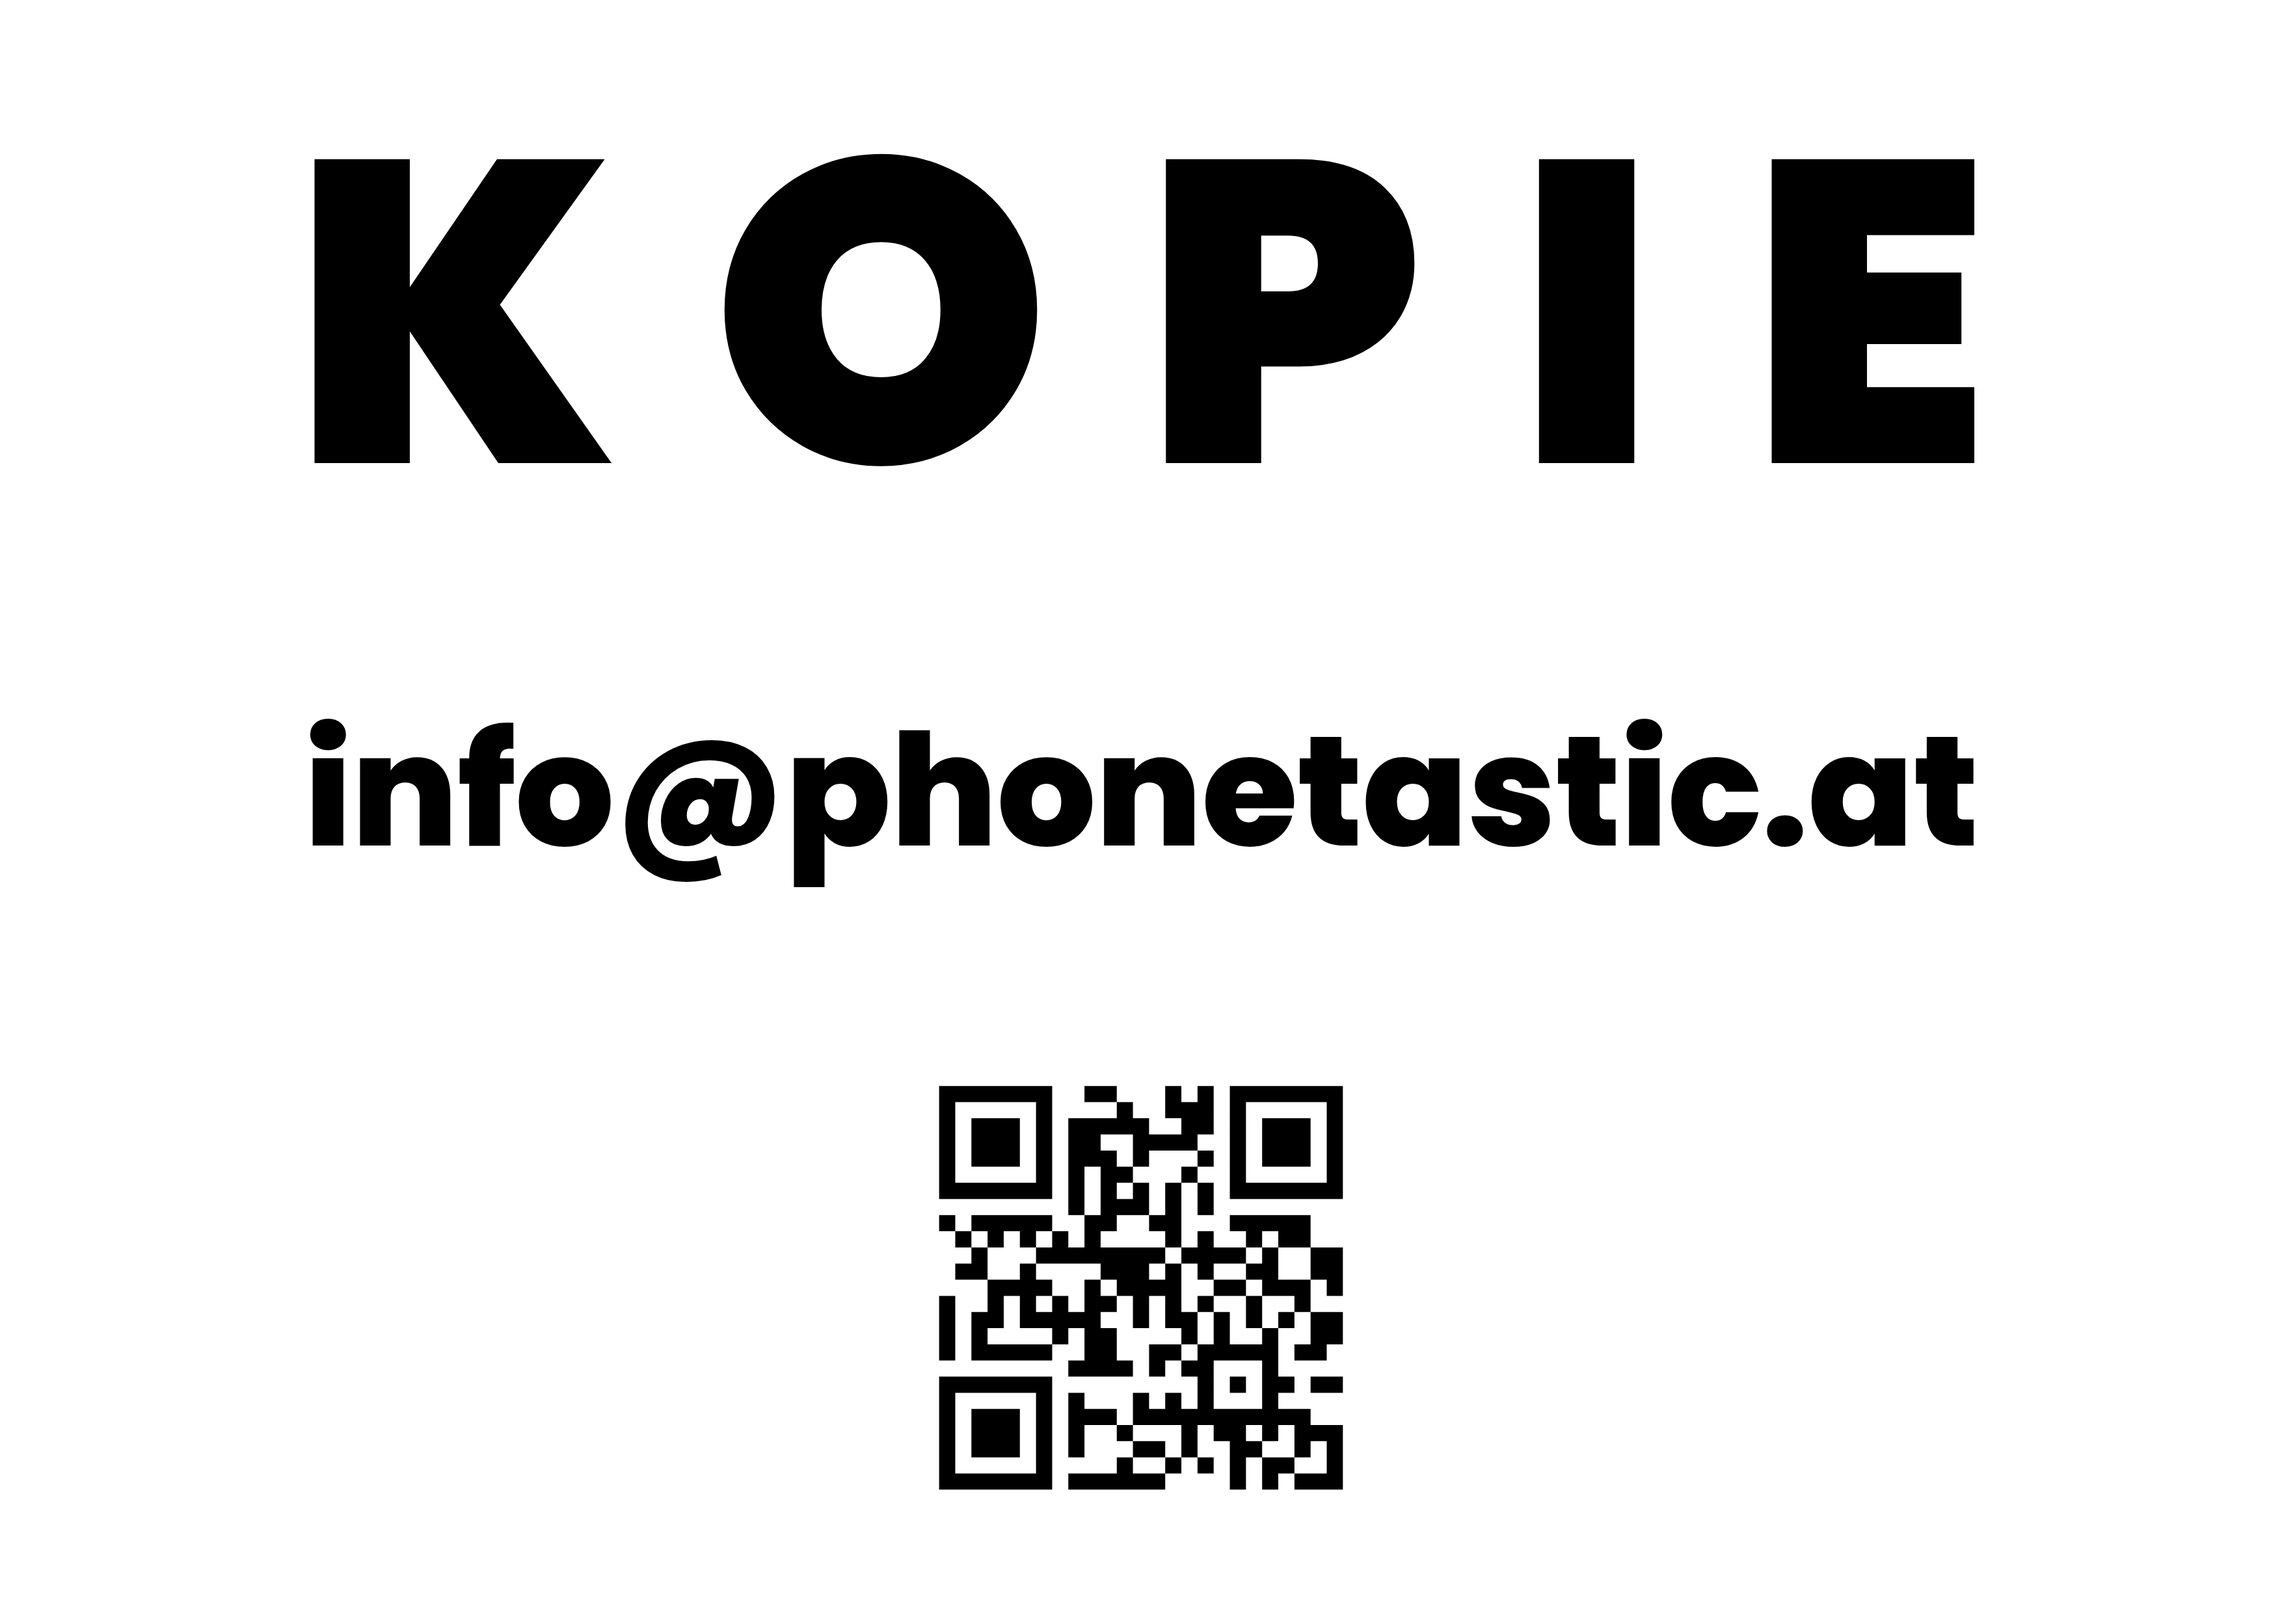
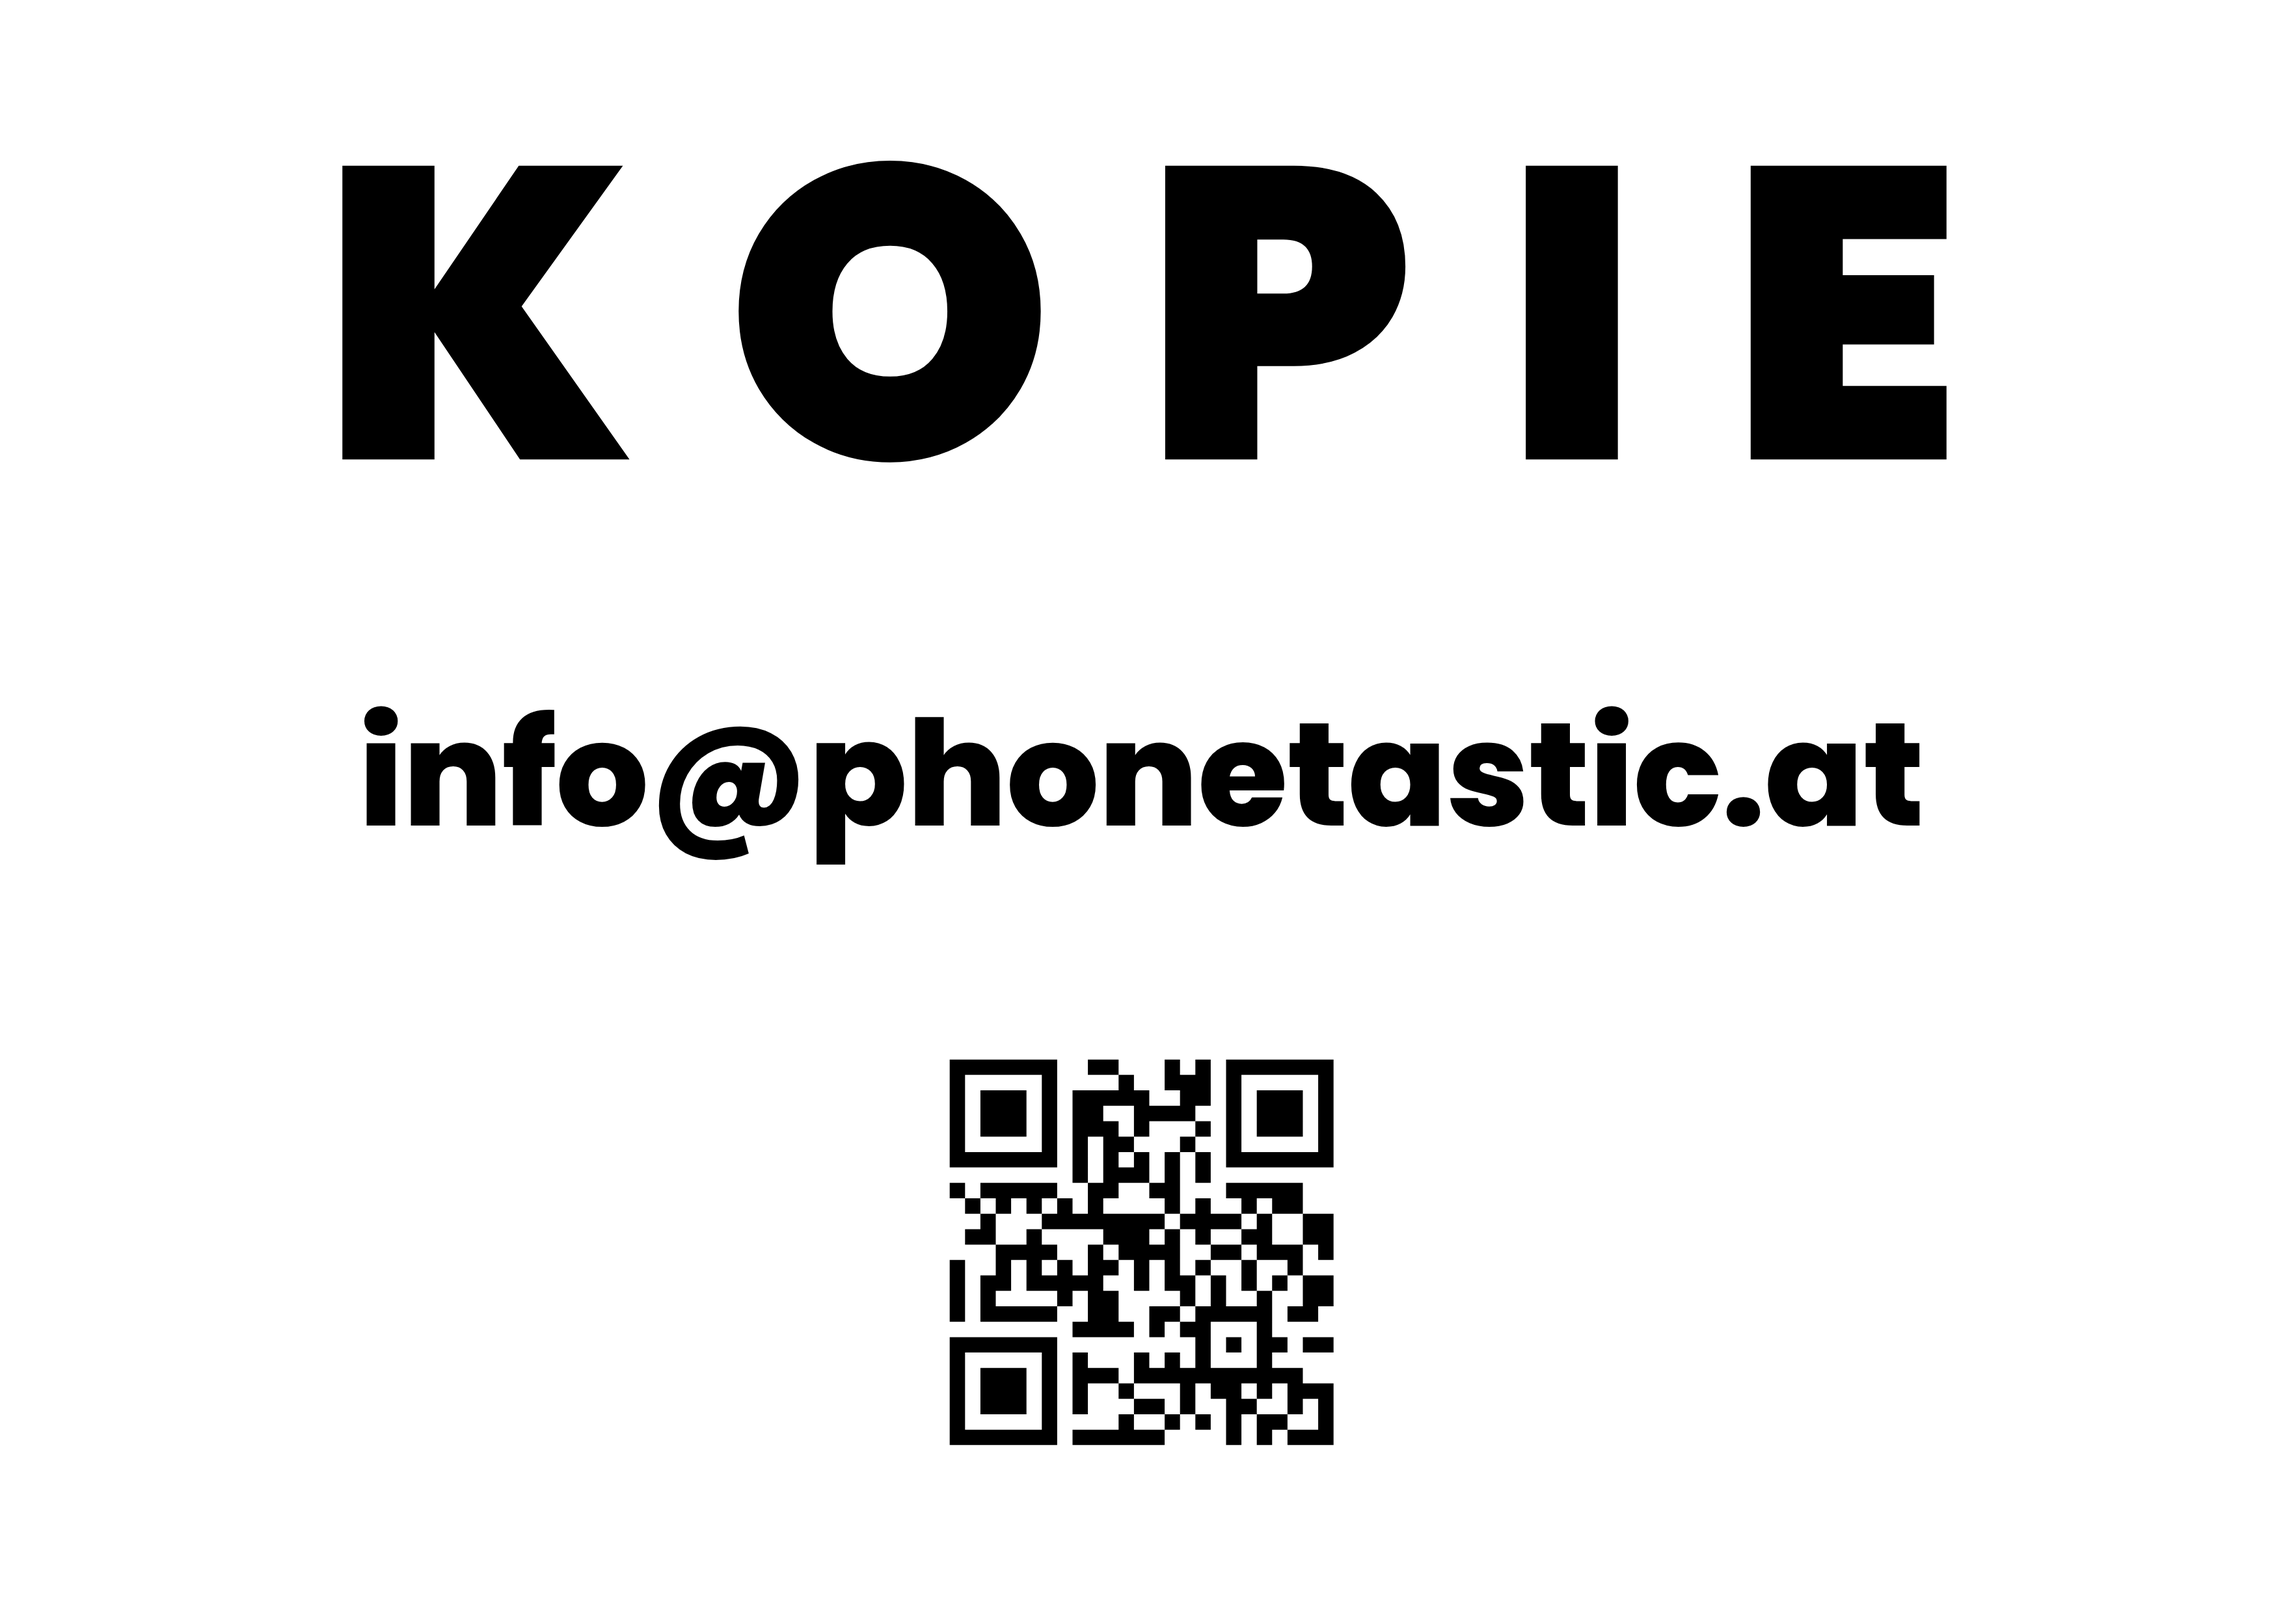
Build the sheet in millimetres and verify the PDF by rendering it
The layout is now sized in mm (297x210) so it matches the print page
one to one, with no scaling step between design and page. The previous
version drew at 1754x1240 px and shrank it with a print-only transform;
a transform does not change the layout box, so the page could still
paginate on the untransformed size.

pdf-pruefen.py replaces the old QR check and verifies the artefact the
way a printer sees it: it rasterises every page, fails if there is more
than one, if a page is not 297x210mm, or if the QR code is not fully
readable on page one. Current output: 1 page, 297x210mm, QR resolves to
mailto:info@phonetastic.at.

README gains the print settings, since a two-page result now comes from
the print dialog rather than the file.

Claude-Session: https://claude.ai/code/session_01TVVgAyGsfcN3cS6abWuXzA

diff --git a/blatt/render.js b/blatt/render.js
@@ -1,11 +1,21 @@
 const { chromium } = require('/opt/node22/lib/node_modules/playwright');
 const path = require('path');
 
+// Das Blatt ist in Millimetern aufgebaut (297 × 210 mm = A4 quer).
+// In CSS-Pixeln bei 96 dpi sind das 1122,5 × 793,7 px.
+const BREITE_PX = 297 / 25.4 * 96;   // 1122,5
+const HOEHE_PX = 210 / 25.4 * 96;    // 793,7
+const DPI = 300;
+const SKALA = DPI / 96;              // 3,125 → PNG wird 3508 × 2480 px
+
 (async () => {
   const b = await chromium.launch({ executablePath: '/opt/pw-browsers/chromium-1194/chrome-linux/chrome' });
 
-  // PNG in Druckauflösung
-  const p = await b.newPage({ viewport: { width: 1820, height: 1300 }, deviceScaleFactor: 2 });
+  // ---- PNG in Druckauflösung ----
+  const p = await b.newPage({
+    viewport: { width: Math.ceil(BREITE_PX) + 40, height: Math.ceil(HOEHE_PX) + 40 },
+    deviceScaleFactor: SKALA,
+  });
   await p.goto('file://' + path.join(__dirname, 'email-blatt.html'));
   await p.evaluate(() => document.fonts.ready);
   await p.waitForTimeout(500);
@@ -13,14 +23,18 @@ const path = require('path');
   const bericht = await p.evaluate(() => {
     const blatt = document.querySelector('#blatt');
     const r = blatt.getBoundingClientRect();
+    const mm = (px) => px / 96 * 25.4;
     const out = [];
     if (blatt.scrollHeight > blatt.clientHeight + 1)
       out.push(`Inhalt ${blatt.scrollHeight}px > Platz ${blatt.clientHeight}px`);
     blatt.querySelectorAll('*').forEach((el) => {
-      const b = el.getBoundingClientRect();
-      if (!b.width) return;
-      if (b.right > r.right - 1 || b.left < r.left + 1)
-        out.push(`ragt über den Rand: ${el.className || el.tagName}`);
+      const e = el.getBoundingClientRect();
+      if (!e.width) return;
+      // Mindestens 8 mm Abstand zu jeder Blattkante
+      const rand = 8;
+      if (mm(e.left - r.left) < rand || mm(r.right - e.right) < rand ||
+          mm(e.top - r.top) < rand || mm(r.bottom - e.bottom) < rand)
+        out.push(`zu nah am Blattrand: ${el.className || el.tagName}`);
       if (el.scrollWidth > el.clientWidth + 1)
         out.push(`zu breit: "${(el.textContent || '').trim().slice(0, 30)}"`);
     });
@@ -32,8 +46,8 @@ const path = require('path');
   const el = await p.$('#blatt');
   await el.screenshot({ path: path.join(__dirname, 'phonetastic-email-blatt.png') });
 
-  // PDF für die Druckerei bzw. zum Kopieren
-  const pdf = await b.newPage({ viewport: { width: 1754, height: 1240 } });
+  // ---- PDF: echte A4-Seite quer ----
+  const pdf = await b.newPage({ viewport: { width: Math.ceil(BREITE_PX), height: Math.ceil(HOEHE_PX) } });
   await pdf.goto('file://' + path.join(__dirname, 'email-blatt.html'));
   await pdf.evaluate(() => document.fonts.ready);
   await pdf.waitForTimeout(400);

diff --git a/blatt/email-blatt.html b/blatt/email-blatt.html
@@ -5,43 +5,38 @@
 <title>PHONETASTIC – Kopie-Blatt A4 quer</title>
 <link rel="stylesheet" href="../fonts.css" />
 <style>
-  /* Beim Drucken gilt genau eine A4-Seite quer, ohne Rand */
+  /* Genau eine A4-Seite quer, ohne Rand */
   @page { size: A4 landscape; margin: 0; }
 
   * { margin: 0; padding: 0; box-sizing: border-box; }
-  body { font-family: 'Poppins', system-ui, sans-serif; background: #b9bec4; }
+  html, body { width: 297mm; height: 210mm; }
+  body { font-family: 'Poppins', system-ui, sans-serif; background: #ffffff; }
 
-  /* Die Gestaltung ist 1754 × 1240 px groß – das ist A4 quer bei 150 dpi.
-     Eine A4-Seite misst im Druck aber 1122,5 × 793,7 CSS-Pixel (96 dpi).
-     Ohne diese Verkleinerung wäre die Seite 464 mm breit und der Drucker
-     verteilt das Blatt auf zwei Seiten. */
-  @media print {
-    html, body { width: 297mm; height: 210mm; overflow: hidden; background: #fff; }
-    .blatt { transform: scale(0.639977); transform-origin: top left; }
-  }
-
-  /* A4 quer bei 150 dpi, wird mit Faktor 2 gerendert → 300 dpi.
-     Nur Schwarz auf Weiß: bleibt auf jedem Kopierer scharf. */
+  /* Das Blatt ist direkt in Millimetern aufgebaut und damit exakt so
+     groß wie die Druckseite. Kein Umrechnen und kein nachträgliches
+     Verkleinern – dadurch kann nichts auf eine zweite Seite rutschen.
+     Ringsum bleiben mindestens 14 mm frei, mehr als jeder Drucker als
+     nicht bedruckbaren Rand braucht. */
   .blatt {
-    width: 1754px; height: 1240px; background: #ffffff;
-    padding: 76px 90px 70px;
+    width: 297mm; height: 210mm; background: #ffffff;
+    padding: 14mm 20mm 18mm;
     display: flex; flex-direction: column; align-items: center;
     justify-content: space-between; text-align: center;
   }
   .blatt > * { flex: none; }
 
   .kopie {
-    font-size: 330px; font-weight: 900; letter-spacing: .22em;
+    font-size: 54mm; font-weight: 900; letter-spacing: .22em;
     text-transform: uppercase; color: #000; line-height: 1;
     padding-left: .22em;           /* die Sperrung schiebt nach rechts */
   }
 
   .mail {
-    font-size: 120px; font-weight: 800; color: #000;
+    font-size: 19mm; font-weight: 800; color: #000;
     letter-spacing: -.005em; white-space: nowrap; line-height: 1.1;
   }
 
-  .qr { width: 360px; height: 360px; }
+  .qr { width: 58mm; height: 58mm; }
   .qr img { width: 100%; height: 100%; display: block; }
 </style>
 </head>

diff --git a/blatt/pdf-pruefen.py b/blatt/pdf-pruefen.py
@@ -1,0 +1,36 @@
+"""Prüft das fertige PDF so, wie es beim Drucken ankommt.
+
+Rendert jede Seite als Bild und kontrolliert:
+  – wie viele Seiten das PDF hat (es muss genau eine sein),
+  – wie groß die Seite ist (A4 quer: 297 × 210 mm),
+  – ob der QR-Code vollständig auf Seite 1 liegt und sich lesen lässt.
+"""
+import cv2
+import pypdfium2 as pdfium
+
+doc = pdfium.PdfDocument('phonetastic-email-blatt.pdf')
+fehler = []
+
+if len(doc) != 1:
+    fehler.append(f'{len(doc)} Seiten statt einer – der Drucker verteilt das Blatt')
+print('Seiten:', len(doc))
+
+for i, seite in enumerate(doc):
+    b, h = seite.get_size()
+    breite_mm, hoehe_mm = round(b / 72 * 25.4), round(h / 72 * 25.4)
+    print(f'  Seite {i + 1}: {breite_mm} × {hoehe_mm} mm')
+    if (breite_mm, hoehe_mm) != (297, 210):
+        fehler.append(f'Seite {i + 1} ist {breite_mm} × {hoehe_mm} mm, nicht A4 quer')
+    seite.render(scale=1.6).to_pil().save(f'pruefung-seite-{i + 1}.png')
+
+# QR auf der ersten Seite suchen; auf der ganzen Seite scheitert der
+# Erkenner, weil er stark verkleinert – darum nur der untere Bereich.
+img = cv2.imread('pruefung-seite-1.png')
+h, w = img.shape[:2]
+aus = img[int(h * 0.55):h, int(w * 0.28):int(w * 0.72)]
+ok, txt, *_ = cv2.QRCodeDetector().detectAndDecodeMulti(aus)
+print('QR auf Seite 1:', txt[0] if ok else 'NICHT GEFUNDEN')
+if not ok or txt[0] != 'mailto:info@phonetastic.at':
+    fehler.append('QR-Code auf Seite 1 nicht lesbar')
+
+print('\n' + ('\n'.join('FEHLER: ' + f for f in fehler) if fehler else 'alles in Ordnung'))

diff --git a/blatt/README.md b/blatt/README.md
@@ -9,31 +9,28 @@ keine Adresse, keine Öffnungszeiten.
 | `phonetastic-email-blatt.pdf` | zum Drucken und Kopieren – eine Seite A4 quer (297 × 210 mm) |
 | `phonetastic-email-blatt.png` | 3508 × 2480 px = A4 quer bei 300 dpi |
 
-**Zur Seitengröße:** Die Gestaltung ist 1754 × 1240 px groß, das ist A4
-quer bei 150 dpi. Chromium rechnet Pixelangaben im PDF aber mit 96 dpi
-um – als Seitenmaß in Pixeln angegeben ergäbe das eine Seite von
-464 × 328 mm, und der Drucker verteilt sie auf zwei Blätter. Darum wird
-das PDF mit `format: 'A4', landscape: true` erzeugt und die Gestaltung
-per `@media print` auf 0,639977 verkleinert (1122,5 CSS-Pixel ÷ 1754).
-Nach jeder Änderung prüfen:
+**Zur Seitengröße:** Das Blatt ist direkt in Millimetern aufgebaut
+(297 × 210 mm) und damit exakt so groß wie die Druckseite – nichts wird
+umgerechnet oder nachträglich verkleinert. Ringsum bleiben mindestens
+14 mm frei, mehr als jeder Drucker als nicht bedruckbaren Rand braucht.
 
-```bash
-python3 -c "import re; d=open('phonetastic-email-blatt.pdf','rb').read(); \
-  print([(round(float(v.split()[2])/72*25.4), round(float(v.split()[3])/72*25.4)) \
-  for v in set(re.findall(rb'/MediaBox\s*\[([^\]]+)\]', d))])"
-```
+Früher war die Seitengröße in Pixeln angegeben. Chromium rechnet die mit
+96 dpi um, wodurch eine Seite von 464 × 328 mm entstand, die der Drucker
+auf mehrere Blätter verteilt hat.
 
-Darauf steht die **öffentliche** Adresse `info@phonetastic.at`, nicht das
-Outlook-Postfach: Post an `info@` wird über KAS dorthin weitergeleitet,
-und nur `info@` steht auch auf der Website und im Impressum.
+`pdf-pruefen.py` rendert das fertige PDF Seite für Seite und meldet,
+wenn es mehr als eine Seite hat, die Seite nicht A4 quer ist oder der
+QR-Code nicht vollständig und lesbar auf Seite 1 liegt.
 
-Der QR-Code öffnet beim Scannen direkt eine neue E-Mail an diese Adresse
-(`mailto:info@phonetastic.at`). Nachprüfen mit `python3 qr-pruefen.py` –
-das Skript schneidet den Bereich um den Code aus, weil der Erkenner an
-der ganzen A4-Seite scheitert.
+## Drucken
 
-Alles in Schwarz auf Weiß, damit das Blatt auf jedem Kopierer scharf
-bleibt und wenig Toner braucht.
+Das **PDF** ausdrucken, nicht das PNG – ein Bild hat keine Seitengröße,
+und Bildbetrachter skalieren es beliebig. Im Druckdialog:
+
+* Papier **A4**
+* Ausrichtung **Querformat** (steht im PDF, manche Drucker fragen trotzdem)
+* Größe **100 % / Tatsächliche Größe** oder **An Seite anpassen**
+* **Beidseitig ausschalten**, sonst bleibt die Rückseite unnötig belegt
 
 ## Neu erzeugen
 
